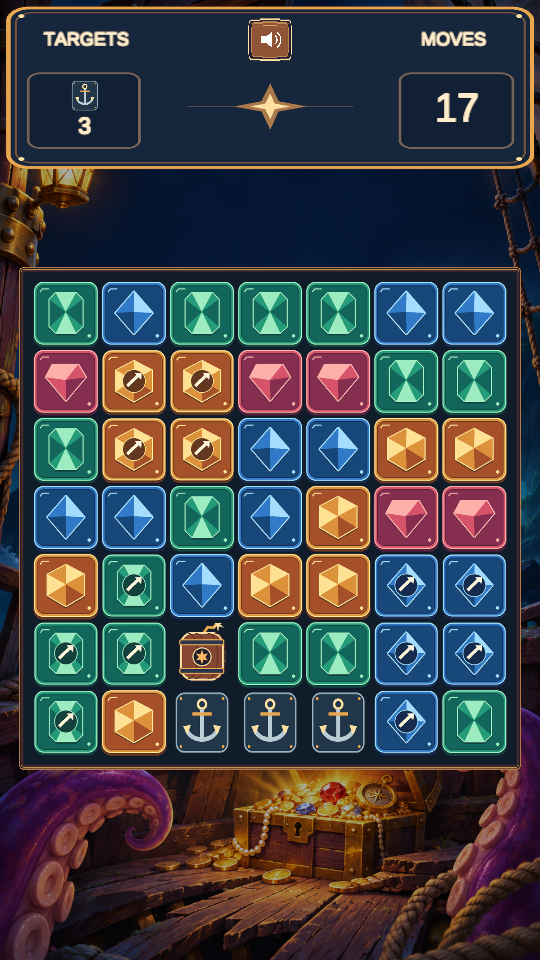
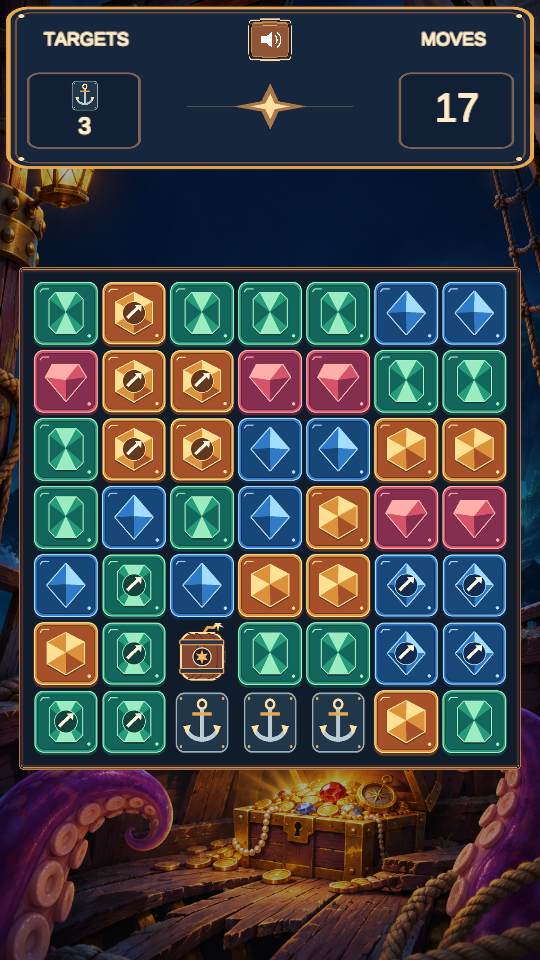
Rename game to Kraken Blast and add portfolio README

Changed region(s): [[0.0593, 0.5, 0.3259, 0.8125], [0.1778, 0.2812, 0.3259, 0.375], [0.6815, 0.7188, 0.8296, 0.8125]]

diff --git a/Assets/_Project/Scripts/Editor/KrakenCacheEditorWindow.cs b/Assets/_Project/Scripts/Editor/KrakenCacheEditorWindow.cs
@@ -9,7 +9,7 @@ namespace KrakenCache.Editor
     {
         private int selectedLevel = 1;
 
-        [MenuItem("Kraken Cache/Set Level...", false, 1)]
+        [MenuItem("Kraken Blast/Set Level...", false, 1)]
         public static void ShowWindow()
         {
             var window = GetWindow<KrakenCacheEditorWindow>("Kraken Level Tool");
@@ -25,7 +25,7 @@ namespace KrakenCache.Editor
         private void OnGUI()
         {
             GUILayout.Space(10);
-            EditorGUILayout.LabelField("Kraken Cache - Level Manager", EditorStyles.boldLabel);
+            EditorGUILayout.LabelField("Kraken Blast - Level Manager", EditorStyles.boldLabel);
             EditorGUILayout.HelpBox(
                 $"Current Persisted Level: {(GameProgress.IsAllLevelsFinished ? "All Finished (11)" : $"Level {GameProgress.LastPlayedLevel}")}",
                 MessageType.Info);
@@ -58,16 +58,16 @@ namespace KrakenCache.Editor
             EditorGUILayout.EndHorizontal();
         }
 
-        [MenuItem("Kraken Cache/Quick Set/Level 1")]
+        [MenuItem("Kraken Blast/Quick Set/Level 1")]
         private static void SetLevel1() => GameProgress.LastPlayedLevel = 1;
 
-        [MenuItem("Kraken Cache/Quick Set/Level 5")]
+        [MenuItem("Kraken Blast/Quick Set/Level 5")]
         private static void SetLevel5() => GameProgress.LastPlayedLevel = 5;
 
-        [MenuItem("Kraken Cache/Quick Set/Level 10")]
+        [MenuItem("Kraken Blast/Quick Set/Level 10")]
         private static void SetLevel10() => GameProgress.LastPlayedLevel = 10;
 
-        [MenuItem("Kraken Cache/Quick Set/Finished")]
+        [MenuItem("Kraken Blast/Quick Set/Finished")]
         private static void SetFinished() => GameProgress.LastPlayedLevel = GameProgress.MaxLevel + 1;
     }
 }

diff --git a/Assets/_Project/Scripts/UI/MainMenuController.cs b/Assets/_Project/Scripts/UI/MainMenuController.cs
@@ -78,7 +78,7 @@ namespace KrakenCache.UI
             var gold = new Color32(255, 214, 147, 255);
             MakeLabel("Eyebrow", "T H E   S H I P W R E C K   C O V E", .81f, 33, gold);
             MakeLabel("TitleTop", "KRAKEN", .742f, 122, new Color32(255, 237, 194, 255));
-            MakeLabel("TitleBottom", "CACHE", .676f, 122, gold);
+            MakeLabel("TitleBottom", "BLAST", .676f, 122, gold);
             MakeLabel("Tagline", "A pirate treasure puzzle", .603f, 39, new Color32(224, 230, 238, 255));
         }
 

diff --git a/Assets/_Project/Scripts/Editor/GameAssetsAutoBuilder.cs b/Assets/_Project/Scripts/Editor/GameAssetsAutoBuilder.cs
@@ -15,7 +15,7 @@ namespace KrakenCache.Editor
             EditorApplication.delayCall += EnsureAssetsBuilt;
         }
 
-        [MenuItem("Kraken Cache/Rebuild Asset Registry", false, 20)]
+        [MenuItem("Kraken Blast/Rebuild Asset Registry", false, 20)]
         public static void EnsureAssetsBuilt()
         {
             var assets = AssetDatabase.LoadAssetAtPath<GameAssets>(AssetPath);

diff --git a/Assets/_Project/Scripts/Editor/KrakenWebBuild.cs b/Assets/_Project/Scripts/Editor/KrakenWebBuild.cs
@@ -8,7 +8,7 @@ namespace KrakenCache.Editor
 {
     public static class KrakenWebBuild
     {
-        [MenuItem("Kraken Cache/Build Web Demo")]
+        [MenuItem("Kraken Blast/Build Web Demo")]
         public static void Build()
         {
             if (!BuildPipeline.IsBuildTargetSupported(BuildTargetGroup.WebGL, BuildTarget.WebGL))

diff --git a/README.md b/README.md
@@ -1,21 +1,38 @@
-# Kraken Cache
+# Kraken Blast
 
-A portrait puzzle game set in a shipwreck cove. Tap connected gems to create cannons and powder kegs. Chain blasts to clear anchors and break jugs, then open treasure chests and collect their gold.
+**A pirate-themed tap-to-blast puzzle game built with Unity and C#.** Explore a shipwreck cove, clear the deck, and claim the gold guarded by the kraken.
 
-<img src="Preview/menu.png" alt="Kraken Cache title screen" width="240"> <img src="Preview/gameplay.png" alt="Gem board with a powder keg and three anchor targets" width="240">
+### [Play in your browser](https://merickiziltas.github.io/kraken-blast-unity-puzzle-game/)
 
-## Play in Unity
+<a href="https://merickiziltas.github.io/kraken-blast-unity-puzzle-game/"><img src="Preview/menu.png" alt="Kraken Blast title screen with a treasure chest and an octopus" width="240"></a> <img src="Preview/gameplay.png" alt="Gem board with a powder keg and three anchor targets" width="240">
 
-1. Open the project in **Unity 6000.3.10f1**.
-2. Open **MainScene** under **Assets → _Project → Scenes**.
-3. Press Play. Select a **9:16** aspect ratio in Game view for the intended layout.
+## How to play
 
-Groups of two or three gems clear normally. Four or five create a directional cannon, while six or more create a powder keg. Tap adjacent special pieces to combine them. The ten expeditions introduce obstacles and combinations as you progress.
+Tap a group of **two or more** matching gems that touch horizontally or vertically. Clear the targets before running out of moves.
 
-## Build for the web
+| Match | Result |
+| --- | --- |
+| 2–3 gems | Clear the group. |
+| 4–5 gems | Create a cannon that blasts along a row or column. |
+| 6+ gems | Create a powder keg that clears a square area. |
+| Adjacent special pieces | Tap to combine them into a larger blast. |
 
-Install Unity's **Web Build Support** module for the editor version above. Choose **Kraken Cache → Build Web Demo** to export a static site to the project's **WebBuild** folder. Serve the folder over HTTP to try it locally. It can also be deployed to GitHub Pages.
+The ten expeditions introduce breakable jugs, anchors that need a special blast, and treasure chests that open before yielding their gold.
+
+## Under the deck
+
+- **Board logic** resolves connected groups with breadth-first search, tracks hits by blast source, and processes chain reactions in waves.
+- **Presentation** uses separate sprite and UI components, DOTween animations, and a responsive portrait layout.
+- **Level data** lives in JSON, so board layouts and move limits can be edited independently of gameplay code.
+
+## Run in Unity
+
+1. Clone this repository and open the project with **Unity 6000.3.10f1**.
+2. Open [MainScene](Assets/_Project/Scenes/MainScene.unity) and set the Game view to **9:16**.
+3. Press **Play** and select **Set sail**. To jump to an expedition, use **Kraken Blast → Set Level…** in the editor.
+
+For a local browser build, install Unity's **Web Build Support** module and choose **Kraken Blast → Build Web Demo**. Serve the resulting **WebBuild** folder over HTTP.
 
 ## Credits
 
-Project by Ahmet Meriç Kızıltaş. Pirate illustration, sprite designs and synthesized audio were produced with AI assistance. Animation uses [DOTween](https://dotween.demigiant.com/) by Daniele Giardini (Demigiant). See the included third-party notices.
+Project by **Ahmet Meriç Kızıltaş**. The pirate illustration, sprite designs, and synthesized audio were produced with AI assistance. Animation uses **DOTween** by Daniele Giardini (Demigiant). [Third-party notices](THIRD_PARTY_NOTICES.md)
